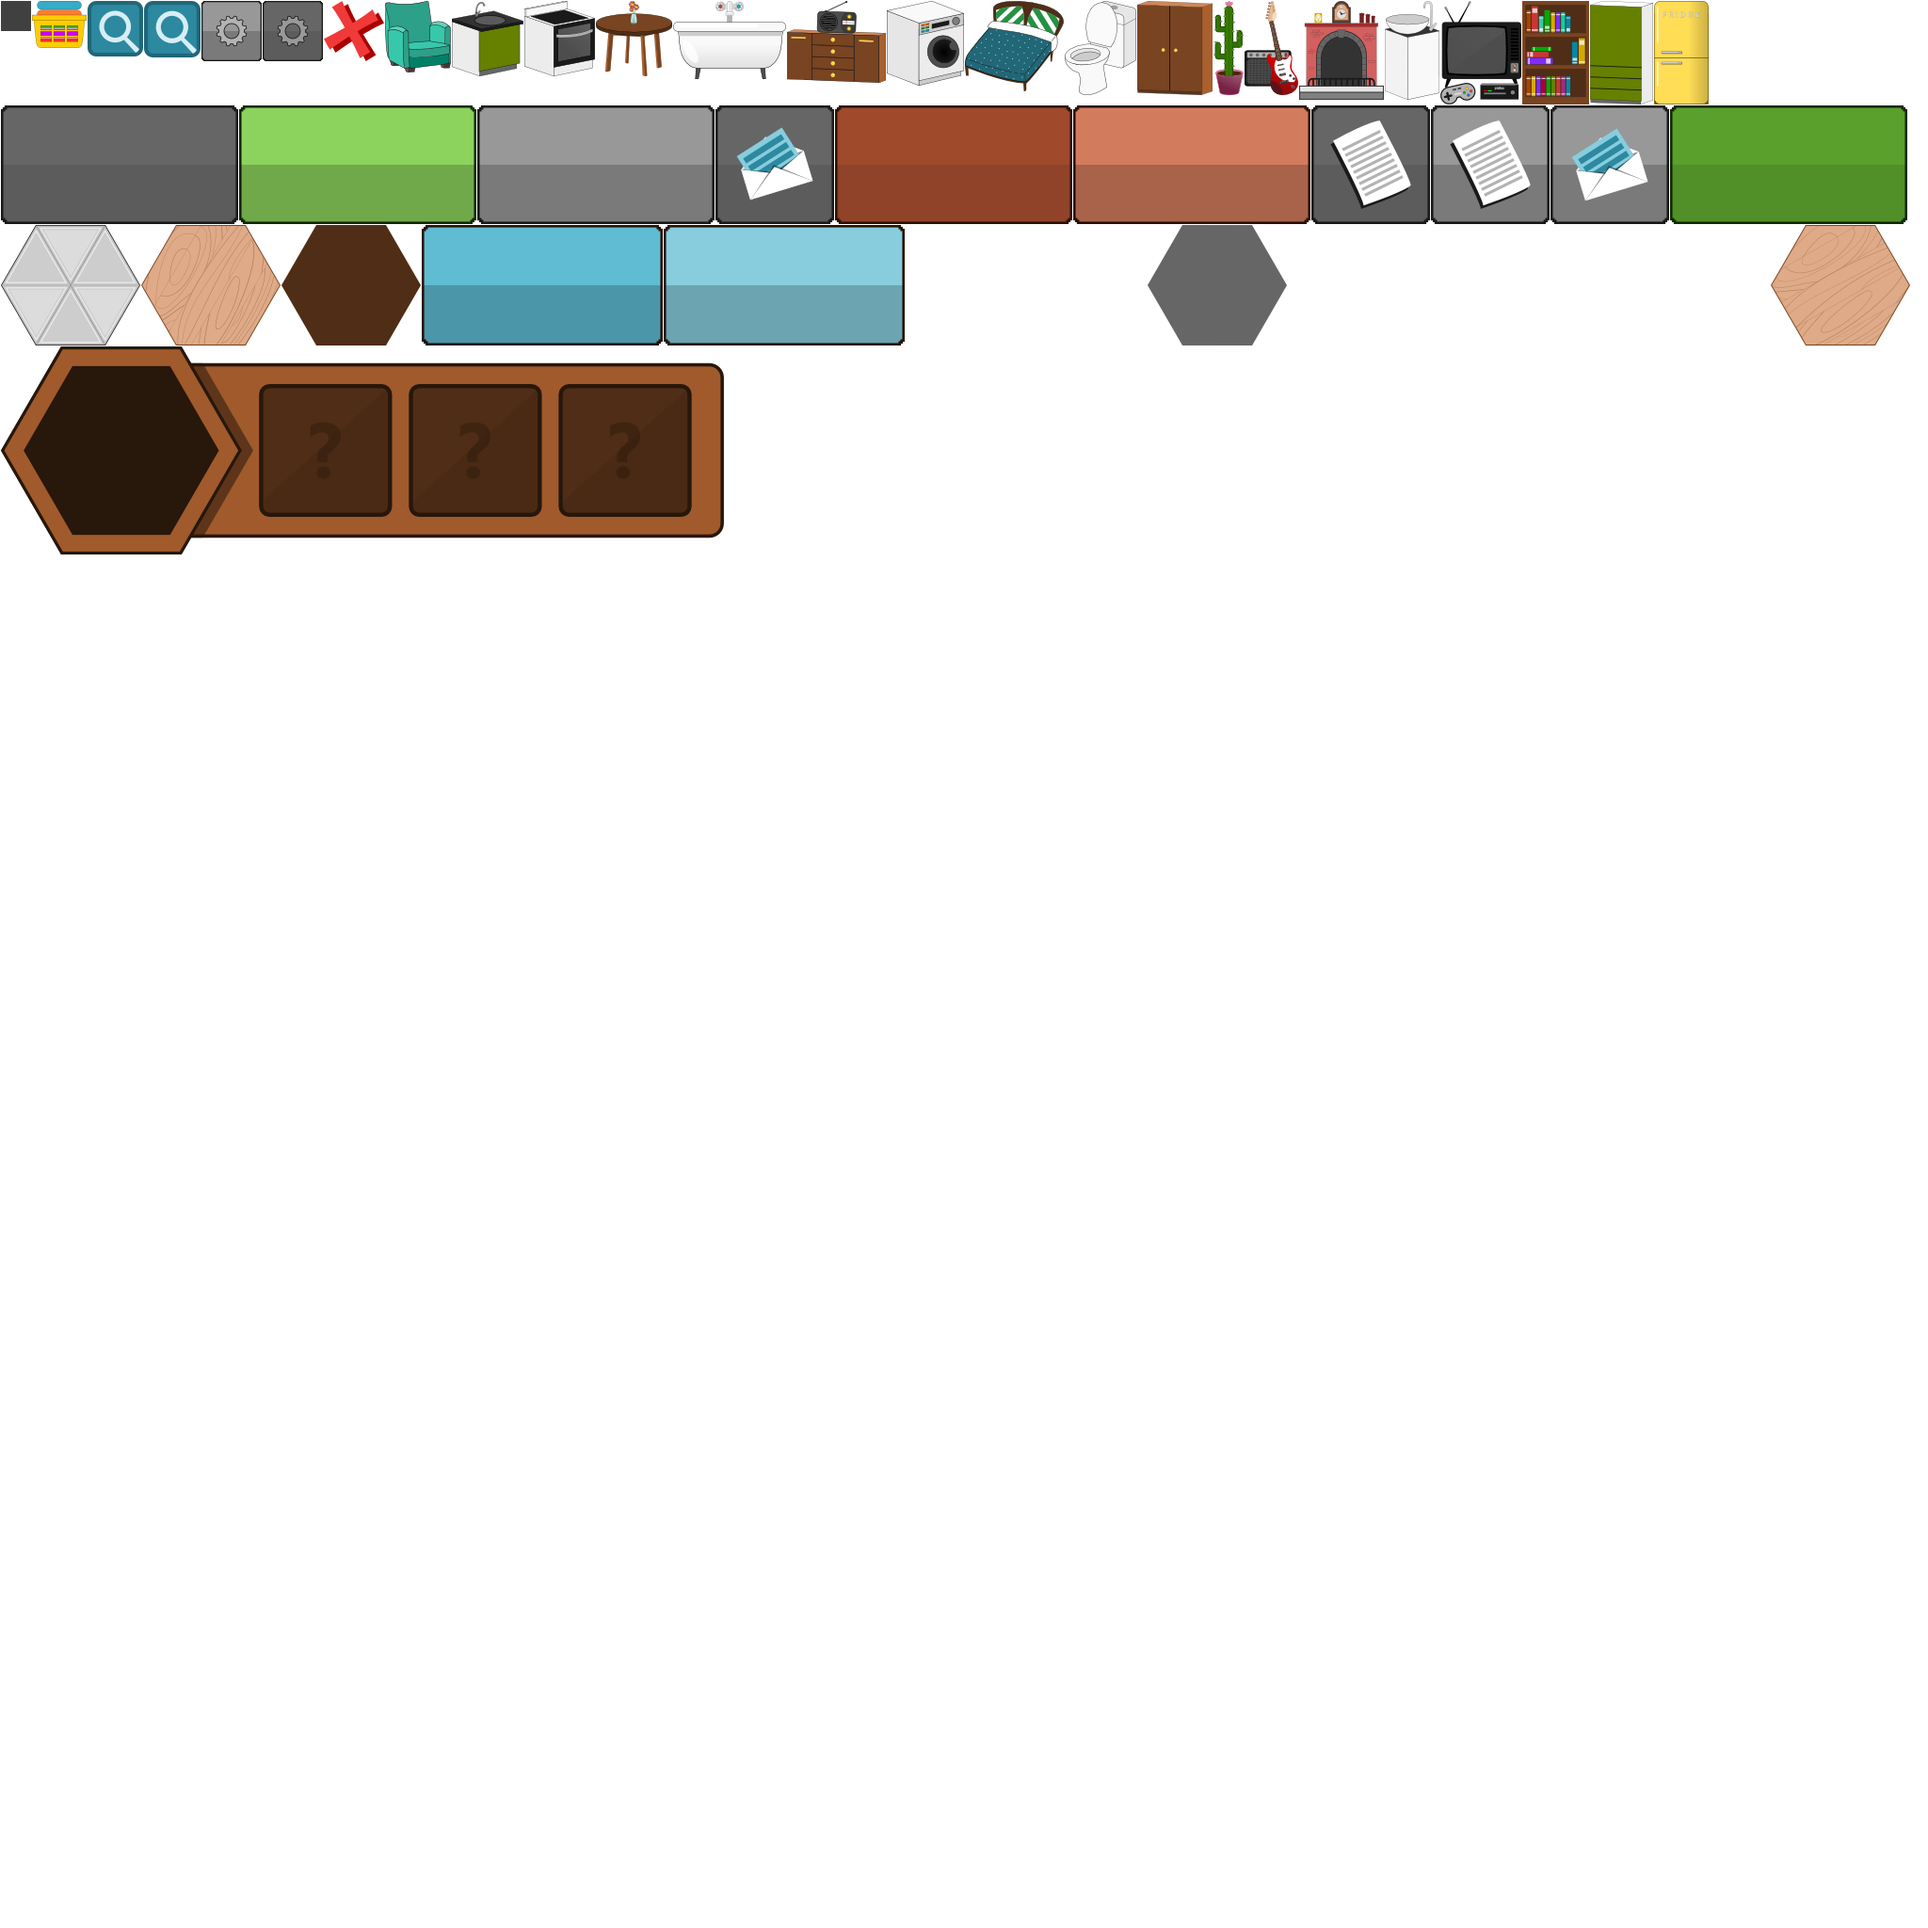
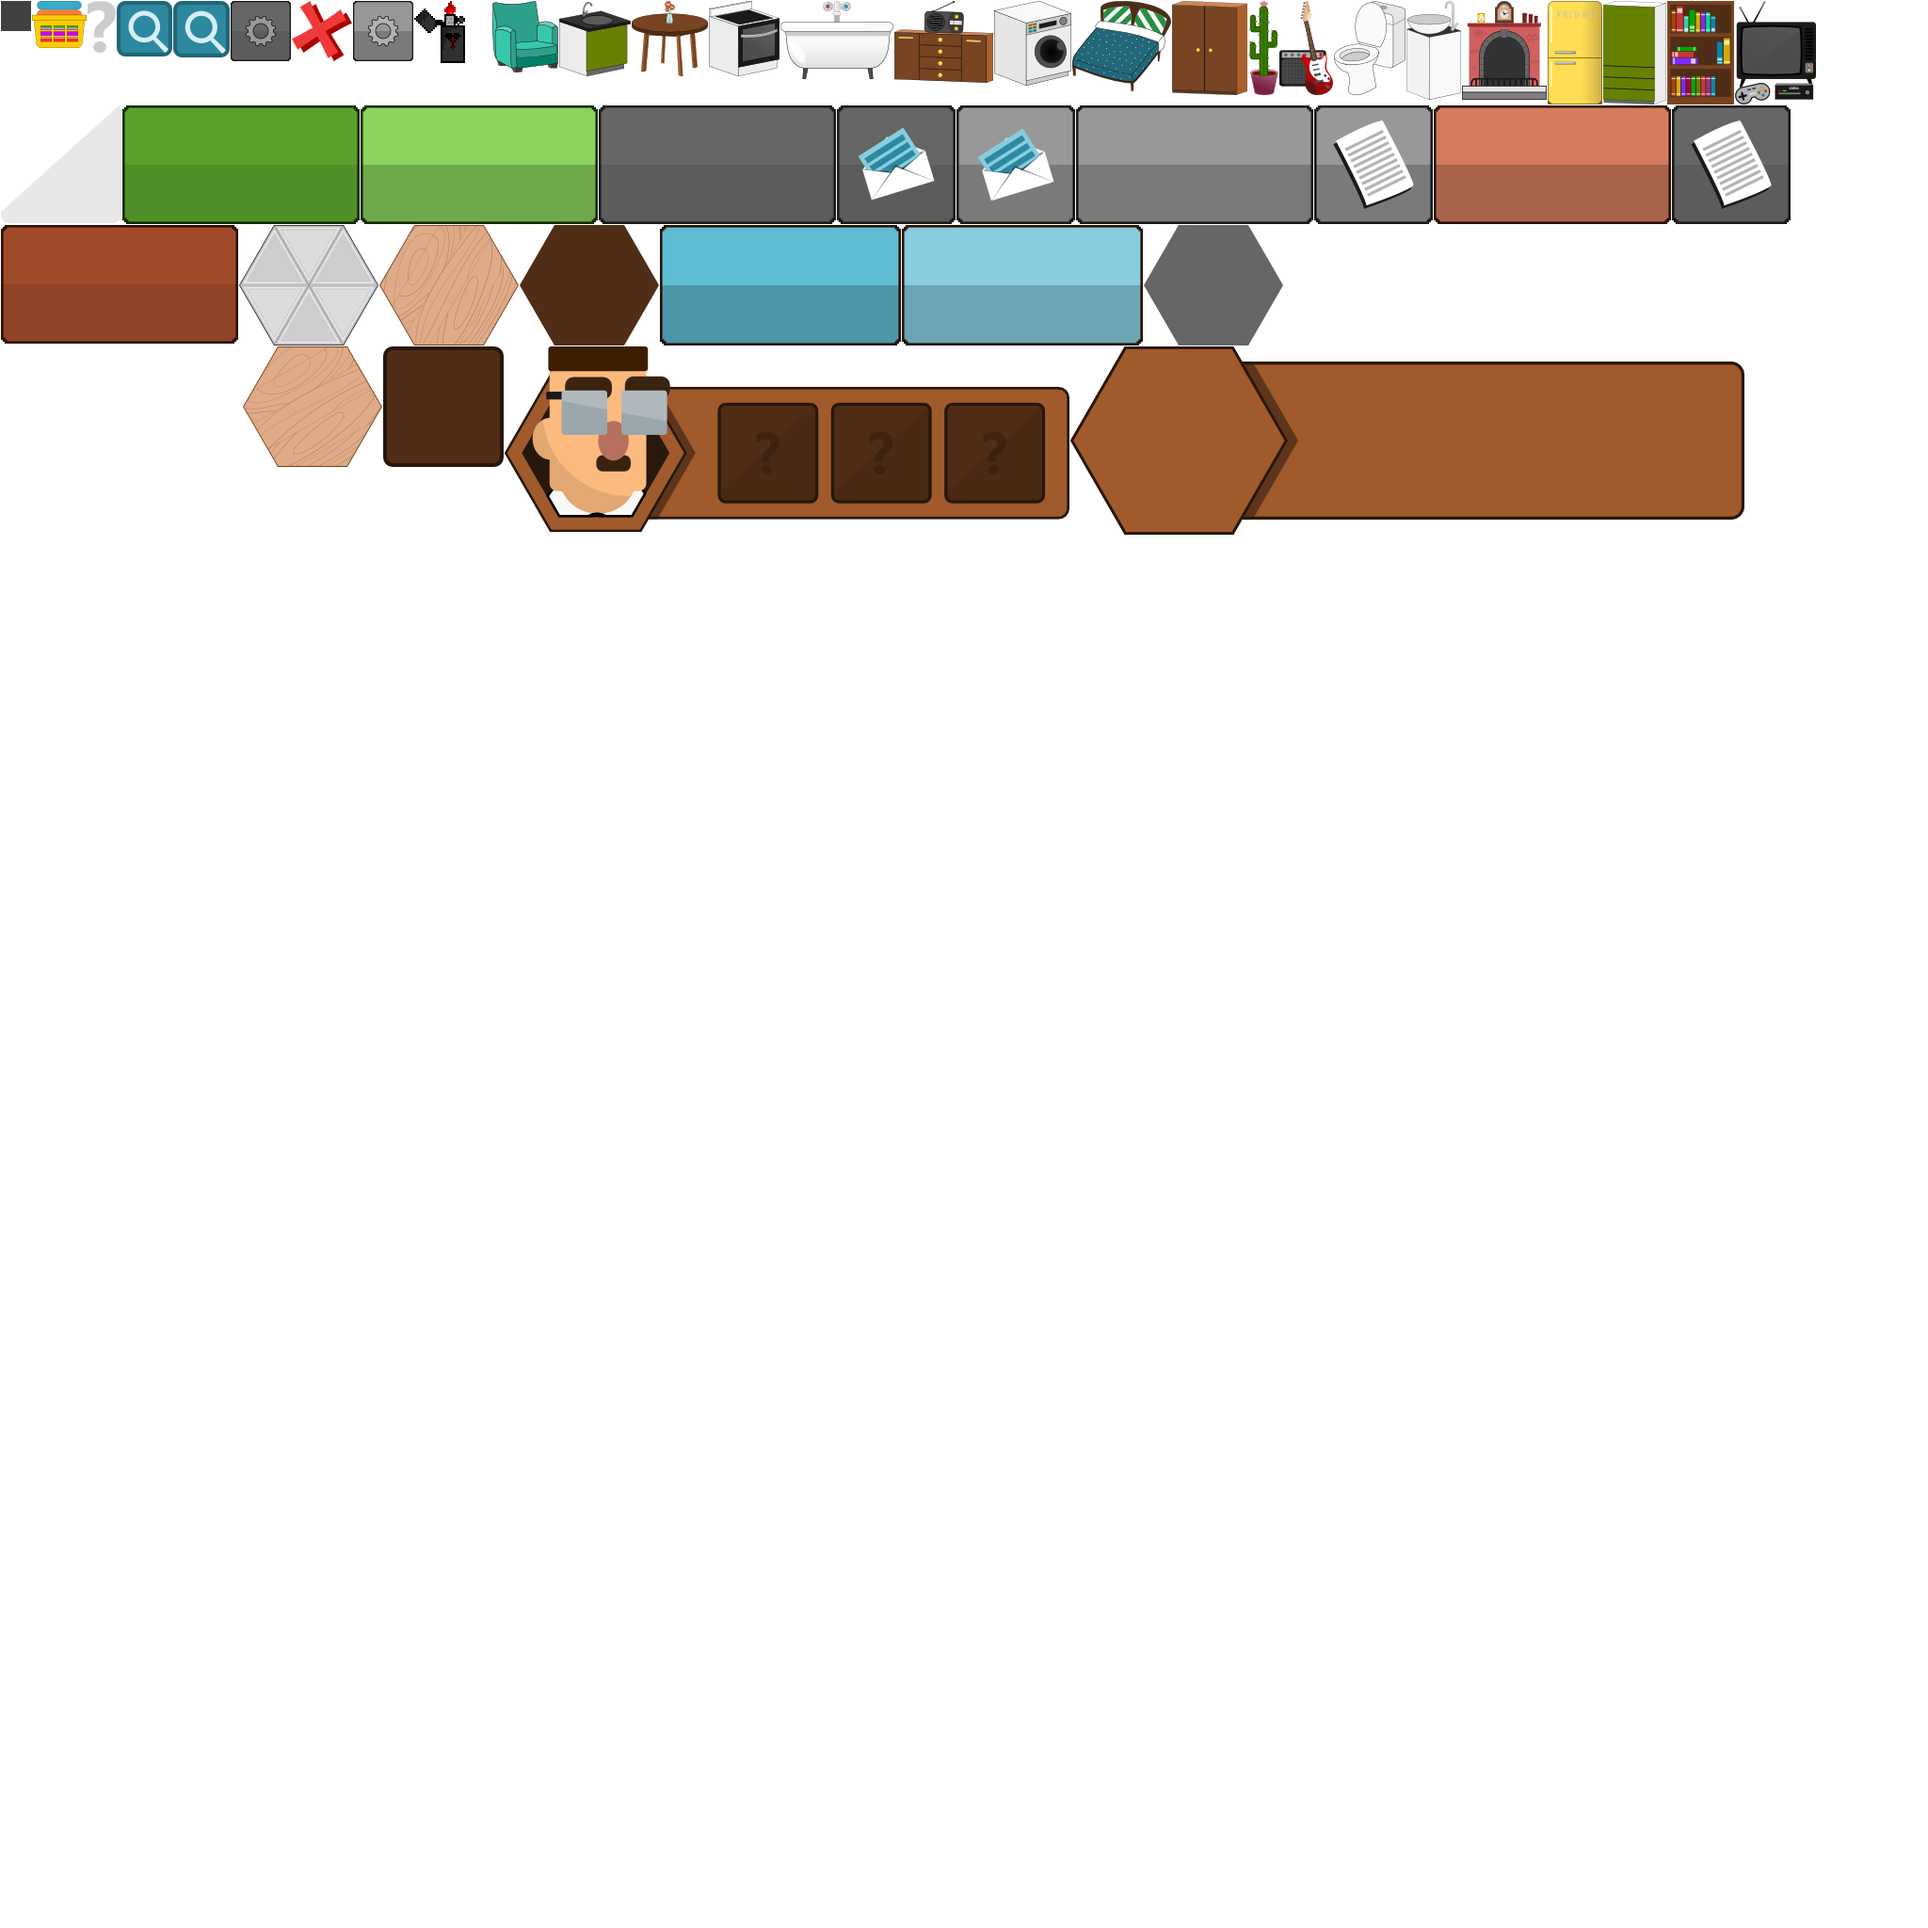
initial implementation of Menu Bar

Changed region(s): [[0.0, 0.0, 1.0, 0.3125]]

diff --git a/core/src/com/mantkowicz/light/menu/MenuBar.java b/core/src/com/mantkowicz/light/menu/MenuBar.java
@@ -1,57 +1,74 @@
 package com.mantkowicz.light.menu;
 
-import com.badlogic.gdx.graphics.Texture;
-import com.badlogic.gdx.graphics.g2d.TextureRegion;
-import com.badlogic.gdx.scenes.scene2d.Stage;
-import com.badlogic.gdx.scenes.scene2d.ui.Button;
-import com.badlogic.gdx.scenes.scene2d.ui.Cell;
+import com.badlogic.gdx.Gdx;
+import com.badlogic.gdx.Input;
+import com.badlogic.gdx.graphics.Camera;
+import com.badlogic.gdx.scenes.scene2d.Group;
+import com.badlogic.gdx.scenes.scene2d.ui.Image;
 import com.badlogic.gdx.scenes.scene2d.ui.Table;
-import com.badlogic.gdx.scenes.scene2d.ui.Value;
-import com.badlogic.gdx.scenes.scene2d.utils.TextureRegionDrawable;
 import com.mantkowicz.light.actor.Collecting;
+import com.mantkowicz.light.actor.implementation.item.Lighter;
+import com.mantkowicz.light.configuration.GamePrepareConfiguration;
 import com.mantkowicz.light.service.resources.ResourcesService;
-import com.mantkowicz.light.ui.window.CollectItem;
 
-import static com.mantkowicz.light.ui.window.CollectItemType.COLLECTIBLE_ITEM;
+import static com.mantkowicz.light.game.Main.SCREEN_HEIGHT;
 
-public class MenuBar extends Table {
+public class MenuBar extends Group {
+    private final MenuBarItem item;
     private Collecting actor;
-    private Cell inventoryCell;
-    private Cell buttonsCell;
+    private Camera camera;
 
-    public MenuBar(ResourcesService resourcesService) {
+    private ResourcesService resourcesService;
+
+    public MenuBar(ResourcesService resourcesService, Camera camera) {
+        super();
+        this.resourcesService = resourcesService;
+        this.camera = camera;
         debug();
-        TextureRegionDrawable textureRegionDrawable = new TextureRegionDrawable(new TextureRegion(resourcesService.getAssetManager().get("table_background.png", Texture.class)));
-        setBackground(textureRegionDrawable);
-        pad(20);
 
-        Table inventoryTable = new Table();
-        inventoryTable.add(new CollectItem(resourcesService.getAssetManager(), COLLECTIBLE_ITEM, null));
-        inventoryTable.add(new CollectItem(resourcesService.getAssetManager(), COLLECTIBLE_ITEM, null));
-        inventoryTable.add(new CollectItem(resourcesService.getAssetManager(), COLLECTIBLE_ITEM, null));
+        Image menuBar = new Image(resourcesService.getTexture("menuBarBackground"));
+        menuBar.setPosition(-menuBar.getWidth() / 2f, 0);
+        addActor(menuBar);
 
-        Table buttonsTable = new Table();
-        buttonsTable.add(new Button(resourcesService.getSkin(), "mail"));
-        buttonsTable.add(new Button(resourcesService.getSkin(), "notepad"));
-        buttonsTable.add(new Button(resourcesService.getSkin(), "settings"));
 
-        inventoryCell = add(inventoryTable).expand();
-        buttonsCell = add(buttonsTable).expand();
+        Table table = new Table();
+        table.setSize(430, 150);
+        table.setPosition(menuBar.getWidth() / 2f - table.getWidth() - 30, menuBar.getHeight() / 2f - table.getHeight() / 2f);
 
-        inventoryTable.debug();
-        buttonsTable.debug();
-    }
+        item = new MenuBarItem(resourcesService);
+        table.add(item).expand();
+        table.add(new MenuBarItem(resourcesService)).expand();
+        table.add(new MenuBarItem(resourcesService)).expand();
 
-    @Override
-    protected void setStage(Stage stage) {
-        super.setStage(stage);
-        setSize(stage.getWidth(), stage.getHeight() * .15f);
-        inventoryCell.minWidth(Value.percentWidth(.8f)).expandY();
-        buttonsCell.minWidth(Value.percentWidth(.2f)).expandY();
+        addActor(table);
+
+        table.debug();
     }
 
     public MenuBar setActor(Collecting actor) {
         this.actor = actor;
         return this;
+    }
+
+
+    @Override
+    public void act(float delta) {
+        super.act(delta);
+        setPosition(camera.position.x, camera.position.y - SCREEN_HEIGHT / 2f + 40);
+
+        if(Gdx.input.isKeyJustPressed(Input.Keys.Z)) {
+            item.setItem(new Lighter(new GamePrepareConfiguration(
+                    null,
+                    null,
+                    null,
+                    null,
+                    null,
+                    null,
+                    null,
+                    null,
+                    null,
+                    resourcesService, camera
+                    )));
+        }
     }
 }

diff --git a/core/src/com/mantkowicz/light/menu/MenuBarItem.java b/core/src/com/mantkowicz/light/menu/MenuBarItem.java
@@ -1,0 +1,58 @@
+package com.mantkowicz.light.menu;
+
+import com.badlogic.gdx.scenes.scene2d.Group;
+import com.badlogic.gdx.scenes.scene2d.ui.Image;
+import com.mantkowicz.light.actor.Collectible;
+import com.mantkowicz.light.service.resources.ResourcesService;
+
+import static com.mantkowicz.light.actor.Collectible.DEFAULT;
+
+public class MenuBarItem extends Group {
+    private final Image background, cover, defaultItemImage;
+    private Image itemImage = null;
+    private Collectible item;
+
+    public MenuBarItem(ResourcesService resourcesService) {
+        background = new Image(resourcesService.getTexture("inventoryItemBackground"));
+        cover = new Image(resourcesService.getTexture("depositItemCover"));
+        defaultItemImage = new Image(resourcesService.getTexture("depositItemDefault"));
+
+        addActor(background);
+        addActor(cover);
+
+        setSize(background.getWidth(), background.getHeight());
+
+        debug();
+
+        setItem(DEFAULT);
+    }
+
+    public Collectible getItem() {
+        return item;
+    }
+
+    public MenuBarItem setItem(Collectible item) {
+        this.item = item;
+
+        if (item == DEFAULT) {
+            setItemImage(defaultItemImage);
+        } else {
+            setItemImage(new Image(item.getThumbnail()));
+        }
+        return this;
+    }
+
+    private void setItemImage(Image image) {
+        image.setPosition(background.getWidth() / 2f - image.getWidth() / 2f, background.getHeight() / 2f - image.getHeight() / 2f);
+
+        if (itemImage != null) {
+            itemImage.remove();
+        }
+
+        itemImage = image;
+        addActor(itemImage);
+
+        itemImage.toFront();
+        cover.toFront();
+    }
+}

diff --git a/core/src/com/mantkowicz/light/actor/implementation/item/Lighter.java b/core/src/com/mantkowicz/light/actor/implementation/item/Lighter.java
@@ -1,6 +1,6 @@
 package com.mantkowicz.light.actor.implementation.item;
 
-import com.badlogic.gdx.graphics.Texture;
+import com.badlogic.gdx.graphics.g2d.TextureRegion;
 import com.mantkowicz.light.actor.BoardGameActor;
 import com.mantkowicz.light.actor.Collectible;
 import com.mantkowicz.light.actor.Inventory;
@@ -10,15 +10,15 @@ import com.mantkowicz.light.configuration.api.PlayerConfiguration;
 import static com.mantkowicz.light.actor.GameActorType.LIGHTER;
 
 public class Lighter extends BoardGameActor implements Item, Collectible {
-    private final Texture thumbnail;
+    private final TextureRegion thumbnail;
 
     public Lighter(PlayerConfiguration configuration) {
         super(LIGHTER, configuration.getBoardService());
-        thumbnail = configuration.getResourcesService().getAssetManager().get("lighter.png", Texture.class);
+        thumbnail = configuration.getResourcesService().getTexture("lighter");
     }
 
     @Override
-    public Texture getThumbnail() {
+    public TextureRegion getThumbnail() {
         return thumbnail;
     }
 

diff --git a/core/src/com/mantkowicz/light/map/implementation/tmx/TmxTiledMapLoader.java b/core/src/com/mantkowicz/light/map/implementation/tmx/TmxTiledMapLoader.java
@@ -86,7 +86,6 @@ public class TmxTiledMapLoader implements TiledMapLoader<TmxTileMapLoaderPropert
 
     private void initializeObjectsMap(TiledMap tiledMap, int layerHeight) {
         for (MapObject object : getObjectLayer(tiledMap).getObjects()) {
-            MapProperties objectProperties = object.getProperties();
             if (object instanceof EllipseMapObject) {
                 Ellipse ellipse = ((EllipseMapObject) object).getEllipse();
                 TiledMapTileLayer tileLayer = getTileLayer(tiledMap);
@@ -111,6 +110,7 @@ public class TmxTiledMapLoader implements TiledMapLoader<TmxTileMapLoaderPropert
                     }
                 }
 
+                MapProperties objectProperties = object.getProperties();
                 TileObjectType objectType = TileObjectType.valueOf(objectProperties.get(OBJECT_CLASS.getValue(), String.class));
                 objectsMap.put(Tuple.of(objectX, objectY), TileObjectFactory.createTileObject(objectType, objectProperties));
             }

diff --git a/core/src/com/mantkowicz/light/stage/MenuStage.java b/core/src/com/mantkowicz/light/stage/MenuStage.java
@@ -1,20 +1,20 @@
 package com.mantkowicz.light.stage;
 
 import com.badlogic.gdx.scenes.scene2d.Stage;
-import com.badlogic.gdx.scenes.scene2d.ui.Image;
 import com.badlogic.gdx.utils.viewport.Viewport;
 import com.mantkowicz.light.actor.Collecting;
+import com.mantkowicz.light.menu.MenuBar;
 import com.mantkowicz.light.service.resources.ResourcesService;
 
 public class MenuStage extends Stage {
-//    private final MenuBar menuBar;
+    private final MenuBar menuBar;
 
     public MenuStage(ResourcesService resourcesService, Viewport viewport) {
         super(viewport);
-//        menuBar = new MenuBar(resourcesService);
+        menuBar = new MenuBar(resourcesService, viewport.getCamera());
 //        menuBar.setPosition(0, 0);
-        Image menuBar = new Image(resourcesService.getTexture("menuBar"));
-        menuBar.setPosition(15, 20);
+
+//        menuBar.setPosition(15, 20);
         addActor(menuBar);
     }
 

diff --git a/core/src/com/mantkowicz/light/actor/implementation/collectible/Chest.java b/core/src/com/mantkowicz/light/actor/implementation/collectible/Chest.java
@@ -1,11 +1,13 @@
 package com.mantkowicz.light.actor.implementation.collectible;
 
 import com.badlogic.gdx.graphics.Texture;
+import com.badlogic.gdx.graphics.g2d.TextureRegion;
 import com.badlogic.gdx.scenes.scene2d.Touchable;
 import com.mantkowicz.light.actor.BoardGameActor;
 import com.mantkowicz.light.actor.Collectible;
 import com.mantkowicz.light.actor.Inventory;
 import com.mantkowicz.light.configuration.api.PlayerConfiguration;
+import sun.reflect.generics.reflectiveObjects.NotImplementedException;
 
 import java.util.ArrayList;
 
@@ -48,5 +50,10 @@ public class Chest extends BoardGameActor implements Collectible {
     @Override
     public Inventory getInventory() {
         return inventory;
+    }
+
+    @Override
+    public TextureRegion getThumbnail() {
+        throw new NotImplementedException();
     }
 }

diff --git a/core/src/com/mantkowicz/light/actor/Collectible.java b/core/src/com/mantkowicz/light/actor/Collectible.java
@@ -1,8 +1,11 @@
 package com.mantkowicz.light.actor;
 
+import com.badlogic.gdx.graphics.g2d.TextureRegion;
 import com.mantkowicz.light.board.tile.Tile;
 
 public interface Collectible {
+    Collectible DEFAULT = null;
+
     /**
      * Defines whether the collectible should collide with neighbour tiles
      */
@@ -17,4 +20,6 @@ public interface Collectible {
     String getName();
 
     Tile getTile();
+
+    TextureRegion getThumbnail();
 }

diff --git a/core/src/com/mantkowicz/light/actor/Item.java b/core/src/com/mantkowicz/light/actor/Item.java
@@ -1,9 +1,9 @@
 package com.mantkowicz.light.actor;
 
-import com.badlogic.gdx.graphics.Texture;
+import com.badlogic.gdx.graphics.g2d.TextureRegion;
 
 public interface Item {
-    Texture getThumbnail();
+    TextureRegion getThumbnail();
 
     void use();
 

diff --git a/core/src/com/mantkowicz/light/service/resources/ResourcesService.java b/core/src/com/mantkowicz/light/service/resources/ResourcesService.java
@@ -48,7 +48,6 @@ public class ResourcesService {
                 return foundRegion;
             }
         }
-
         try {
             Texture texture = assetManager.get(textureName, Texture.class);
             return new TextureRegion(texture);
